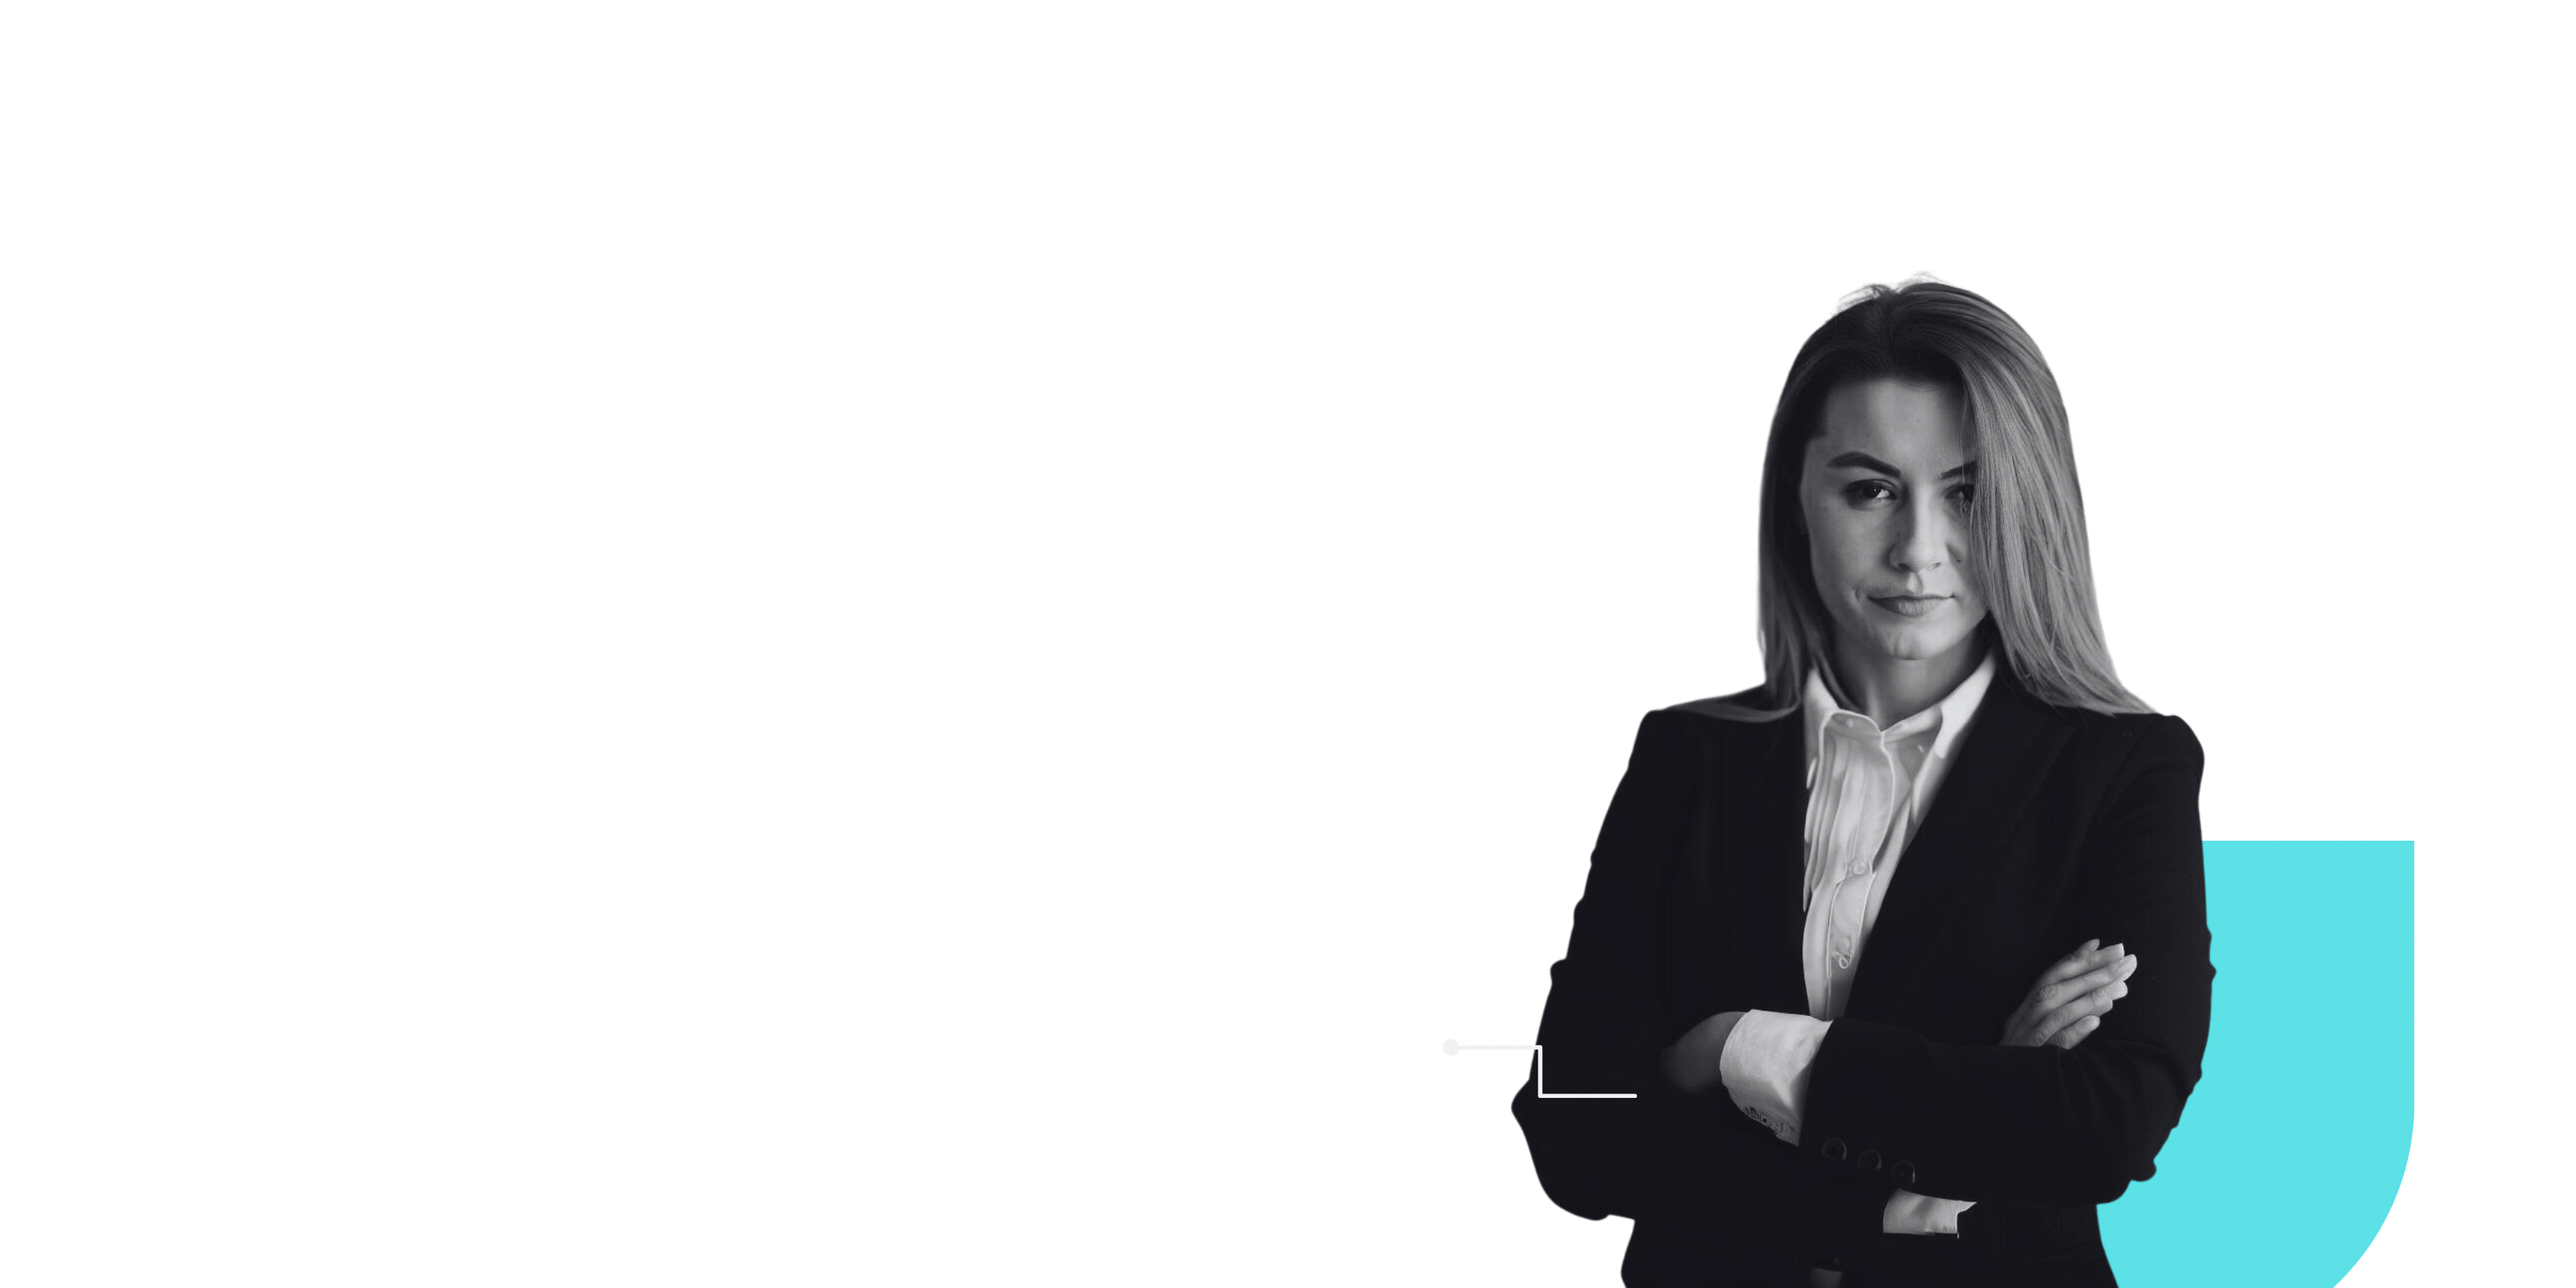
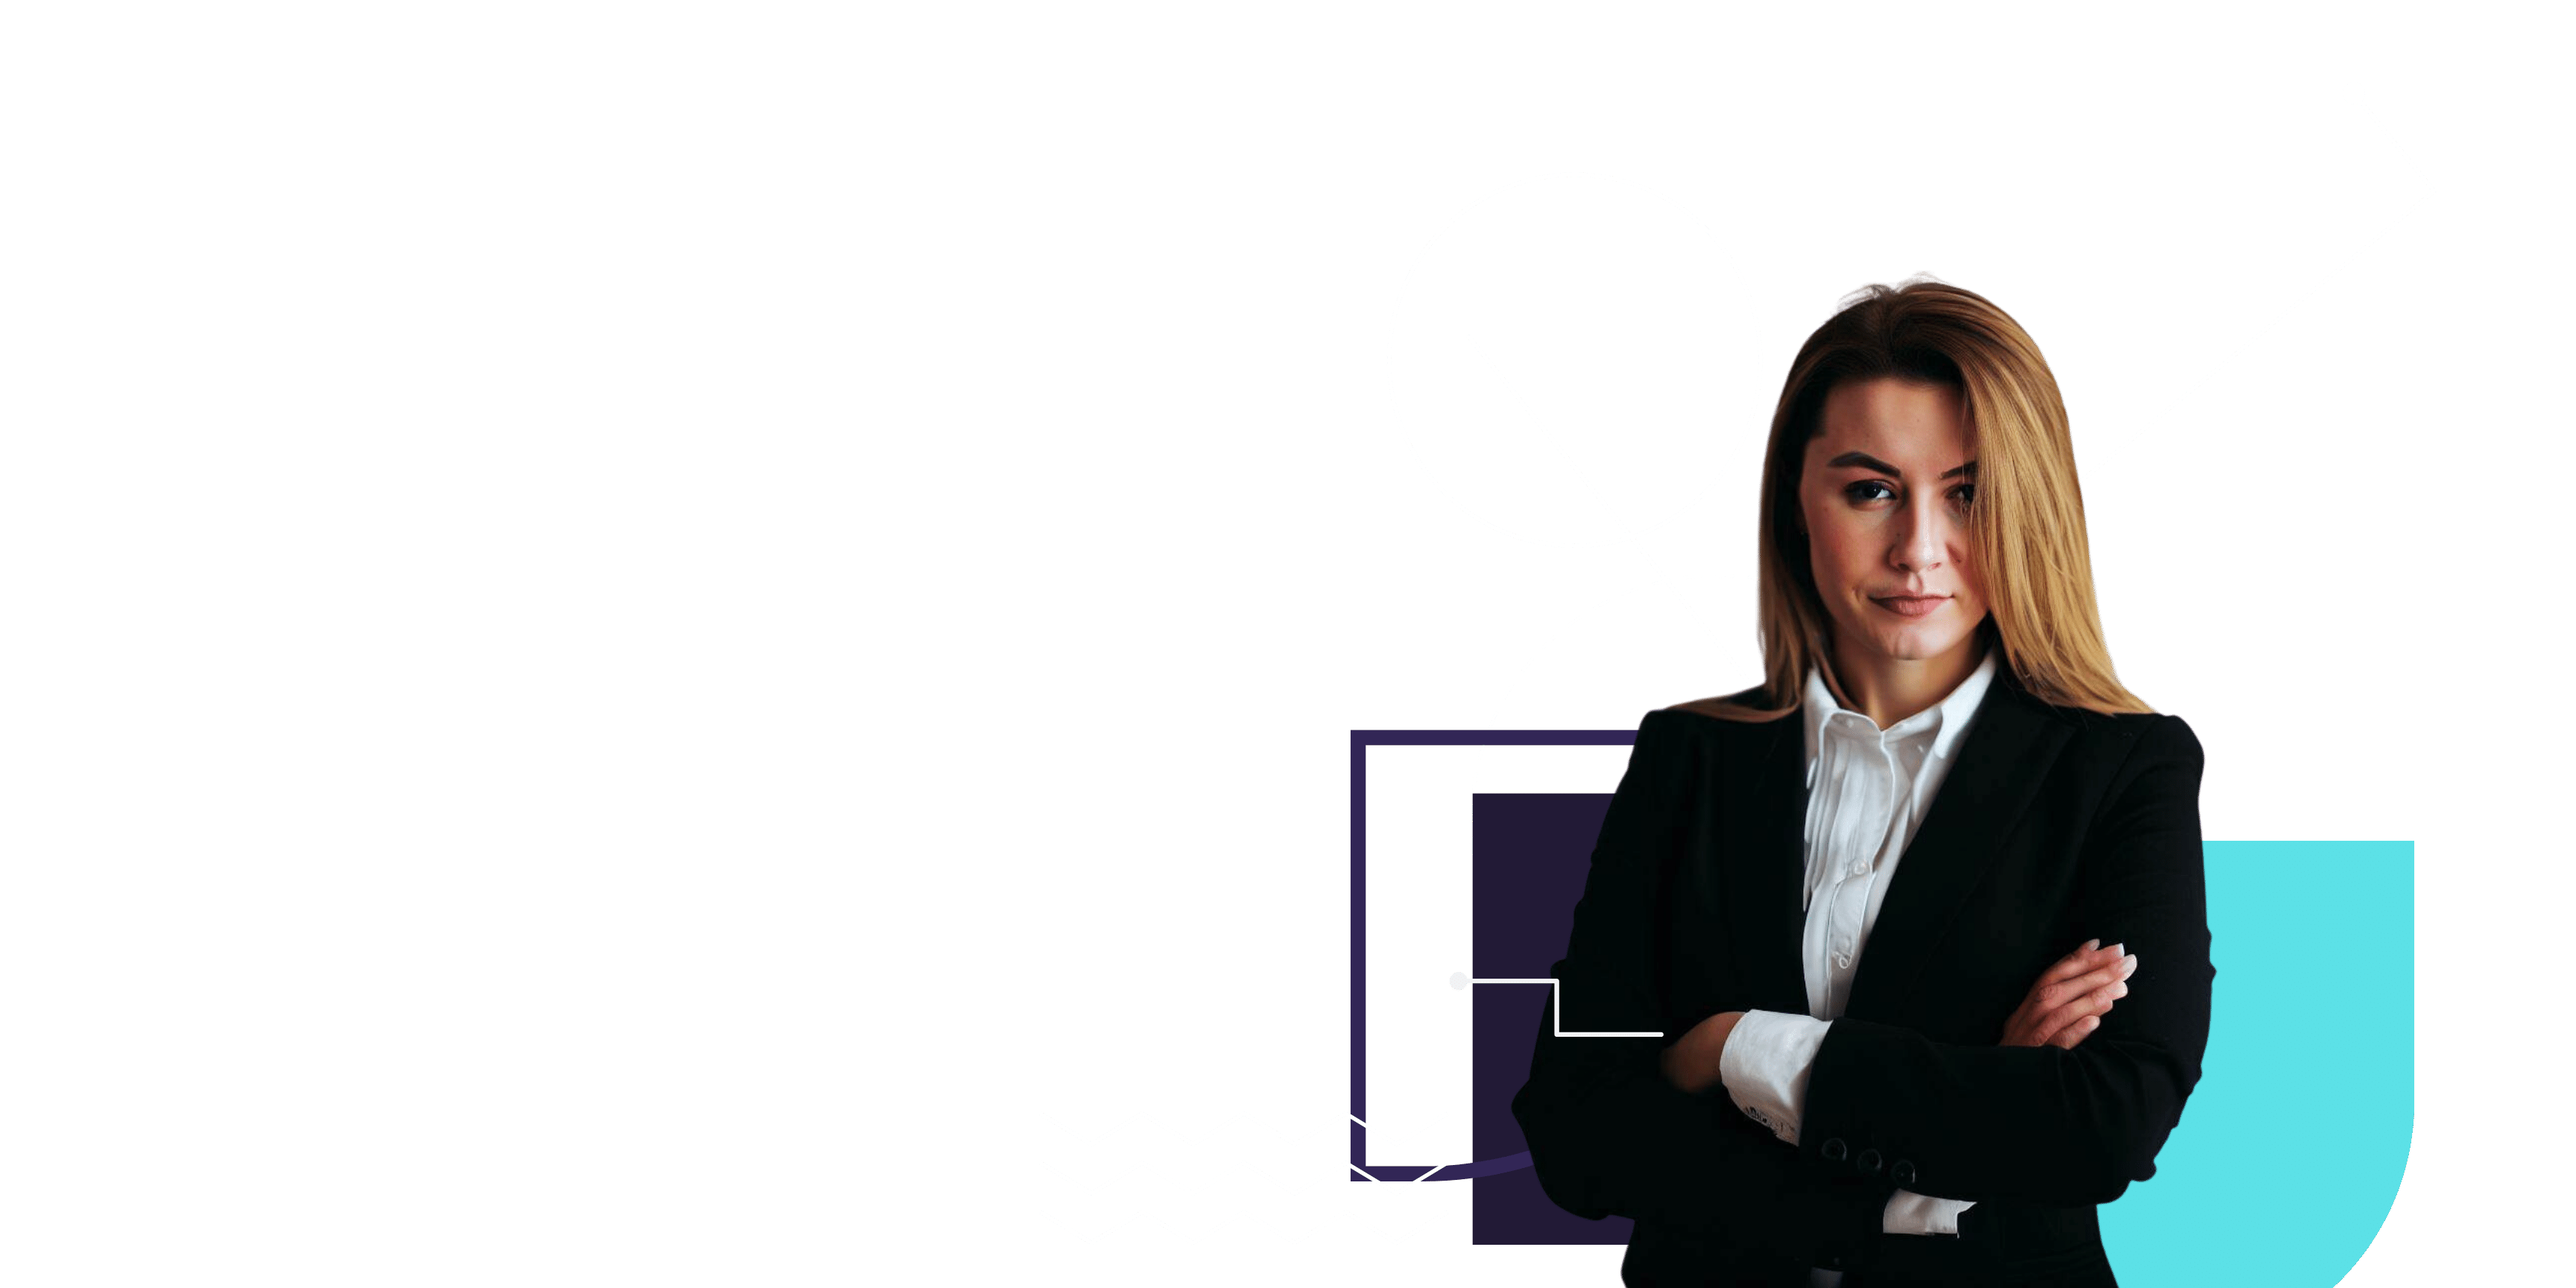
best images

Changed region(s): [[0.6562, 0.2188, 0.8438, 0.5938], [0.5, 0.5625, 0.6875, 0.9688], [0.7812, 0.7188, 0.8438, 0.8125]]

diff --git a/index.html b/index.html
@@ -36,20 +36,21 @@
 			</div>
 		</header>
 		<!---->
-
-		<!-- primeira section: início da página -->
-		<section id="sct-1" class="container-fluid bg-image">
-			<div class="container">
-				<div class="titles">
+		<section class="container-fluid bg-image bg-dark border-bottom">
+			<div id="duvidas" class="d-flex mobile"><!--container -!!! ver possibilidade de usar grid aqui-->
+				<div class="titles" style="width: 30%;">
 					<h1 class="text-shadow">Automatize a rotina do seu escritório</h1>
 					<p class="text-shadow registro">Conheça a nova plataforma jurídica de gestão integrada de escritórios de advocacia</p>
 					<div>
 						<a class="buttons" href="https://advable-mvp.herokuapp.com/register">Registrar</a>
 					</div>
 				</div>
-			</div>
+				
+				<div class="duvidas-contato">
+				</div>
+			</div> <!-- fim do container -->
 		</section>
-		<!---->
+
 		
 		<!-- segunda section: funções do software -->
 		<section id="sct-2" class="container-fluid border-bottom line-height bg-dark text-color">
@@ -102,6 +103,19 @@
 		</section>
 		<!---->
 
+
+		<!-- quarta section: dúvidas no whatsapp -->
+		<section id="sct-4" class="container-fluid text-align bg-dark border-bottom">
+			<div id="duvidas" class="container mobile"><!--container -!!! ver possibilidade de usar grid aqui-->
+				<div><img class="duvidas-img wow flipInX center center" src="./imagens/lawyer-black.png" alt=""></div>  
+				
+				<div class="duvidas-contato">
+					<h2 class="line-height">Dúvidas? Podemos ajudar!</h2>
+					<a href="https://api.whatsapp.com/send?phone=5584999031110" class="btn-whatsapp">Fale conosco pelo <strong>Whatsapp</strong></a>
+				</div>
+			</div> <!-- fim do container -->
+		</section>
+		<!---->
 		<!-- terceira section: diário de desenvolvimento -->
 		<section id="sct-3" class="border-bottom container-fluid text-align line-height bg-dark"> 
 			<div id="cards"><!-- container da sct-3 -->
@@ -144,20 +158,8 @@
 				</div><!--fim do container dos cards-->
 			</div> <!--fim do container da sct-3-->
 		</section>
-		<!---->
-		<!-- quarta section: dúvidas no whatsapp -->
-		<section id="sct-4" class="container-fluid text-align bg-dark">
-			<div id="duvidas" class="container mobile"><!--container -!!! ver possibilidade de usar grid aqui-->
-				<div><img class="duvidas-img wow flipInX center center" src="./imagens/lawyer-black.png" alt=""></div>  
-				
-				<div class="duvidas-contato">
-					<h2 class="line-height">Dúvidas? Podemos ajudar!</h2>
-					<a href="https://api.whatsapp.com/send?phone=5584999031110" class="btn-whatsapp">Fale conosco pelo <strong>Whatsapp</strong></a>
-				</div>
-			</div> <!-- fim do container -->
-		</section>
-		<!---->
-		<!-- quinta section: segundo botão de registro -->
+
+		
 		<section id="sct-5" class="container-fluid text-align">
 			<div class="container"><!--container-->
 				<div>
@@ -168,7 +170,6 @@
 				</div>
 			</div><!--fim do container-->
 		</section>
-		<!---->
 
 		<!-- sexta section: footer -->
 		<footer class="bg-dark text-color">

diff --git a/styles.css b/styles.css
@@ -26,6 +26,12 @@
     background-color: var(--bg-light);
 }
 
+.access-columns {
+    display: grid;
+    grid-template-columns: repeat(2, 1fr);
+    grid-gap: 30px;
+}
+
 .text-color { color: var(--colorText); }
 
 li { list-style: none; }
@@ -50,6 +56,14 @@ li { list-style: none; }
     border-bottom: 3px solid #4e4e4e;
  }
 
+.bg-image-2 { 
+    background-image: url(./imagens/happy-lawyer.png);
+    background-position: center;
+    background-size: contain;
+    background-repeat: no-repeat;
+    min-height: 80vh;
+ }
+
 .badge {
     color: black;
     border-radius: 20px;
@@ -69,6 +83,10 @@ li { list-style: none; }
 }
 /* display do body */
 .container-fluid { width: 100%; }
+
+.d-flex {
+    display: flex;
+}
 
 .container {
     max-width: 987px;
